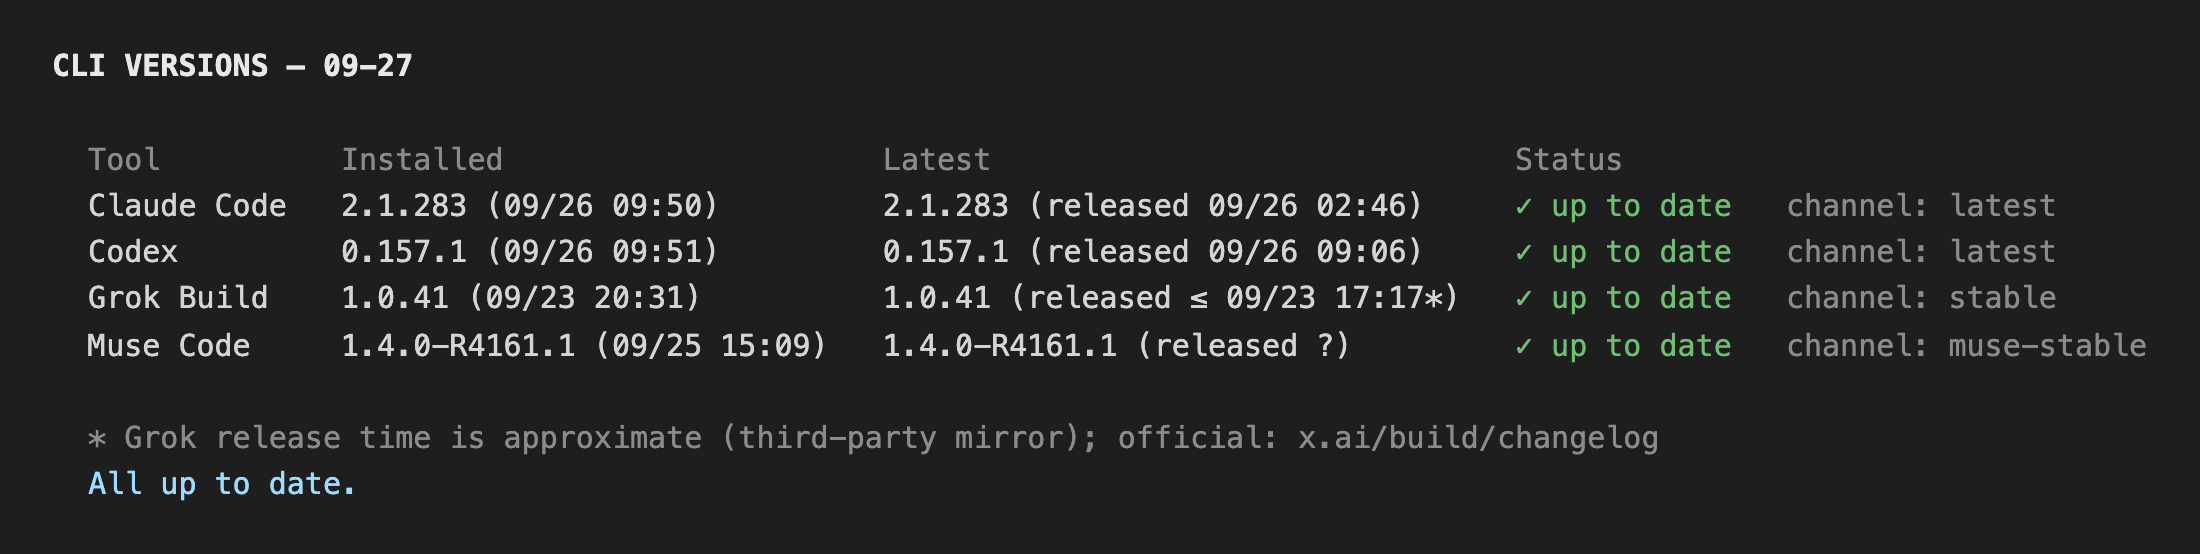
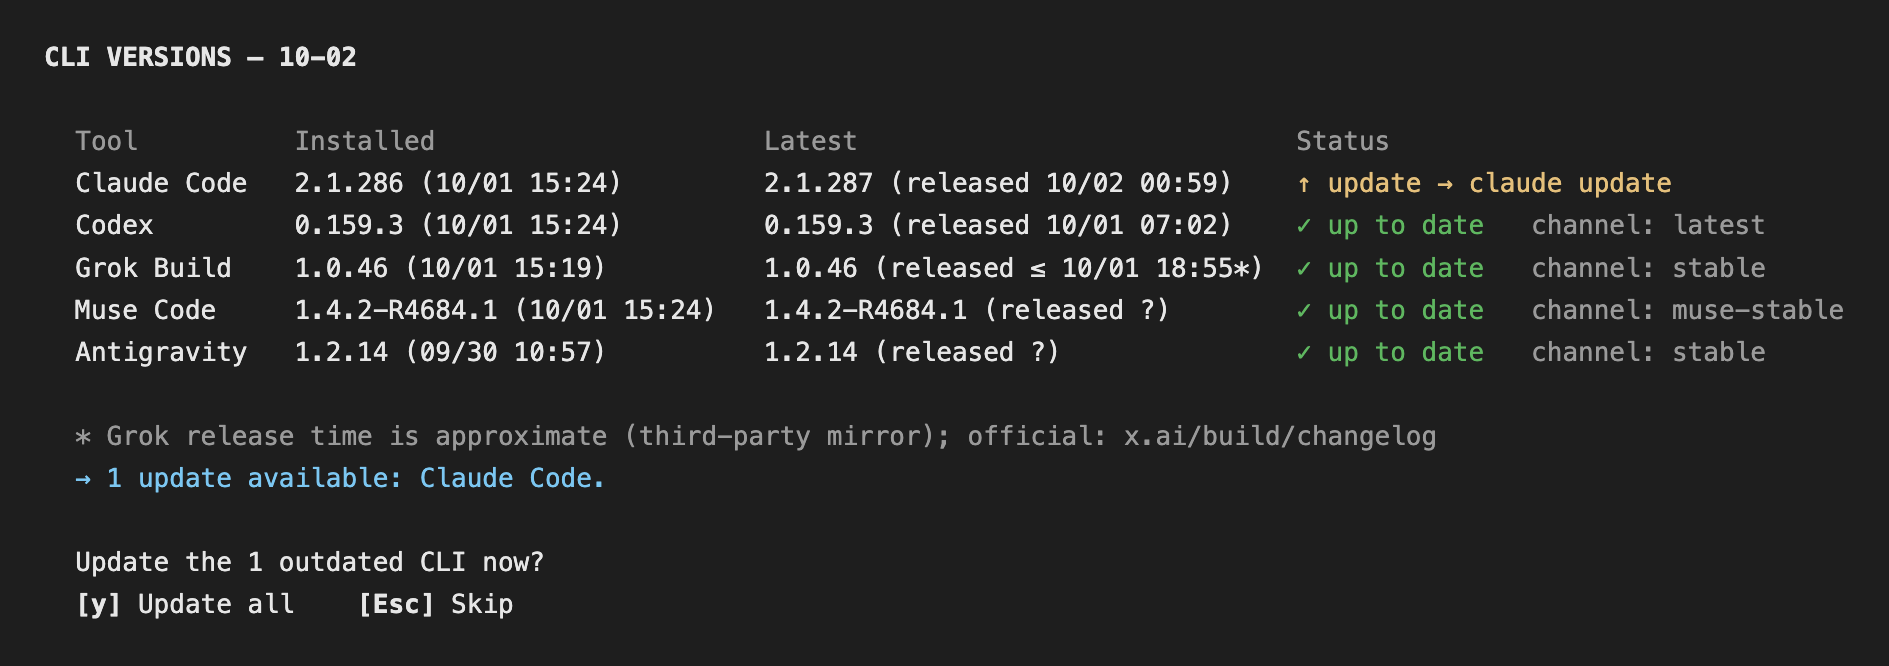
feat(ai-cli-version): check the Antigravity (Gemini) CLI, bump to 1.3.0
- Installed: ~/.gemini/bin/agy --version. Latest: Stable Version on the
  CLI's own auto-updater; it lists no dates, so released=? with the
  rollout percentage in the note.
- The update command is the full path: the agy on PATH is the IDE launcher.
- SKILL.md, READMEs and the demo image updated.

diff --git a/skills/ai-cli-version/run.py b/skills/ai-cli-version/run.py
@@ -1,13 +1,14 @@
 #!/usr/bin/env python3
-"""Report installed vs latest versions of the Claude Code, Codex, Grok Build and Muse Code CLIs.
+"""Report installed vs latest versions of the Claude Code, Codex, Grok Build, Muse Code and
+Antigravity (Gemini) CLIs.
 
 For each tool: the installed version and when it was installed on this machine, and the
 latest version and when it was released. Check only -- this script never installs or
 updates anything.
 
 Standard library only. The Python code makes HTTP requests to the npm registry, the
-GitHub API and Muse's public release channel; everything else is read from the local CLIs
-and the filesystem.
+GitHub API, Muse's public release channel and the Antigravity CLI's auto-updater;
+everything else is read from the local CLIs and the filesystem.
 """
 
 import datetime
@@ -21,7 +22,7 @@ import sys
 import urllib.request
 
 # Bumped by hand. `metadata.version` in SKILL.md mirrors this; keep them equal.
-VERSION = "1.2.0"
+VERSION = "1.3.0"
 
 TIMEOUT = 60
 HOME = os.path.expanduser("~")
@@ -67,6 +68,12 @@ def get_json(url, headers=None):
     request = urllib.request.Request(url, headers={"User-Agent": "ai-cli-version", **(headers or {})})
     with urllib.request.urlopen(request, timeout=TIMEOUT) as response:
         return json.loads(response.read().decode("utf-8", errors="replace"))
+
+
+def get_text(url):
+    request = urllib.request.Request(url, headers={"User-Agent": "ai-cli-version"})
+    with urllib.request.urlopen(request, timeout=TIMEOUT) as response:
+        return response.read().decode("utf-8", errors="replace")
 
 
 def parse_version(text):
@@ -288,6 +295,36 @@ def check_muse():
         print(f"muse	check failed ({exc})")
 
 
+# The Antigravity CLI's own auto-updater. Its root answers in plain text, e.g.
+# "Antigravity CLI auto updater is running! Stable Version: 1.2.14. Rolled out to 100%".
+# `/releases` lists versions without dates, so there is no release time.
+AGY_UPDATER = "https://antigravity-cli-auto-updater-974169037036.us-central1.run.app"
+
+
+def check_agy():
+    # ~/.gemini/bin/agy, never `agy` on PATH: the Antigravity IDE installs an editor
+    # launcher with the same name, and running that opens a window.
+    cli = os.path.join(HOME, ".gemini", "bin", "agy.exe" if os.name == "nt" else "agy")
+    if not os.path.isfile(cli):
+        print("agy\tnot installed")
+        return
+    try:
+        installed = parse_version(run([cli, "--version"]))
+        page = get_text(AGY_UPDATER)
+        match = re.search(r"Stable Version:\s*(\d+\.\d+\.\d+)", page)
+        if not match:
+            raise RuntimeError("updater page names no stable version")
+        latest = parse_version(match.group(1))
+        rollout = re.search(r"Rolled out to\s*(\d+%)", page)
+        note = "not published: the updater lists versions without dates"
+        if rollout:
+            note += "; rolled out to " + rollout.group(1)
+        update = '"%s" update' % cli if " " in cli else "%s update" % cli
+        emit("agy", installed, install_time(cli), latest, None, note, "stable", update)
+    except Exception as exc:  # noqa: BLE001
+        print(f"agy\tcheck failed ({exc})")
+
+
 def main():
     stdout_utf8()
     if "--version" in sys.argv:
@@ -298,6 +335,7 @@ def main():
     check_codex()
     check_grok()
     check_muse()
+    check_agy()
 
 
 if __name__ == "__main__":

diff --git a/skills/ai-cli-version/SKILL.md b/skills/ai-cli-version/SKILL.md
@@ -1,10 +1,10 @@
 ---
 name: ai-cli-version
-description: Check whether the Claude Code, Codex, Grok Build and Muse Code CLIs are up to date, then optionally update outdated CLIs after a y/Esc choice. Use when the user runs /ai-cli-version or /check-uu, or asks 檢查更新, CLI 有沒有新版, claude/codex/grok/muse 要不要更新, 什麼時候發佈, 我什麼時候更新的, "is my CLI up to date", "when was this released".
-compatibility: Requires Python 3.9+, permission to launch subprocesses, and internet access to registry.npmjs.org, api.github.com and api.meta.ai. Each tool shown needs its CLI installed; missing tools are reported as not installed. npm and Node.js are not required. Tested on Windows and macOS; Linux is not yet tested.
+description: Check whether the Claude Code, Codex, Grok Build, Muse Code and Antigravity (Gemini) CLIs are up to date, then optionally update outdated CLIs after a y/Esc choice. Use when the user runs /ai-cli-version or /check-uu, or asks 檢查更新, CLI 有沒有新版, claude/codex/grok/muse/agy/antigravity 要不要更新, 什麼時候發佈, 我什麼時候更新的, "is my CLI up to date", "when was this released".
+compatibility: Requires Python 3.9+, permission to launch subprocesses, and internet access to registry.npmjs.org, api.github.com, api.meta.ai and the Antigravity CLI auto-updater (run.app). Each tool shown needs its CLI installed; missing tools are reported as not installed. npm and Node.js are not required. Tested on Windows and macOS; Linux is not yet tested.
 metadata:
   author: Jeinn
-  version: "1.2.0"
+  version: "1.3.0"
 ---
 
 # /ai-cli-version — CLI version and update check
@@ -31,6 +31,7 @@ Only the **latest** version and the **currently installed** version — no histo
 | Claude Code | `claude --version` | `~/.local/share/claude/versions/<installed>` | npm `@anthropic-ai/claude-code`, dist-tag = `autoUpdatesChannel` in `settings.json` under `$CLAUDE_CONFIG_DIR` or `~/.claude` (default `latest`) | npm publish time |
 | Codex | `codex --version` | `$CODEX_HOME` (default `~/.codex`) `/packages/standalone/releases/<installed>-*` | npm `@openai/codex`, dist-tag `latest` | npm publish time |
 | Grok Build | `grok update --check --json` | `~/.grok/downloads/grok-<installed>-*` | same call | **approximate** — see below |
+| Antigravity CLI | `~/.gemini/bin/agy --version` | the `agy` binary itself | the CLI's auto-updater: `Stable Version` on `https://antigravity-cli-auto-updater-974169037036.us-central1.run.app` | **not available** — see below |
 | Muse Code | `muse --version` with `MUSE_NO_AUTO_UPDATE=1` | `muse-bin-<installed>*` next to the `muse` launcher | `https://api.meta.ai/muse-code/channels/<channel>`, channel = `$MUSE_CHANNEL`, else `.muse-channel` next to the launcher (default `muse-stable`) | **not available** — see below |
 
 - `claude update` and `codex update` install immediately and have no check-only flag, so
@@ -57,6 +58,12 @@ Only the **latest** version and the **currently installed** version — no histo
   update command forces the launcher's own synchronous update (`MUSE_SYNC_UPDATE=1`)
   and prints the new version.
 
+- **Antigravity CLI is `~/.gemini/bin/agy`, never the `agy` on PATH.** The Antigravity IDE
+  installs an editor launcher with the same name; running it opens a window. The update
+  command is the full path, `~/.gemini/bin/agy update`. Its auto-updater lists versions
+  without dates, so `released=?` always; the note says how far the rollout has gone.
+  The CLI also updates itself when it starts.
+
 Each tool line is tab-separated:
 `name installed=… installed_at=… latest=… released=… released_note=… channel=… status=… update_cmd=…`,
 or `name<TAB>not installed`, or `name<TAB>check failed (<reason>)`. Times are local
@@ -72,6 +79,7 @@ CLI VERSIONS — 09-17
   Codex         0.153.4 (09/07 11:03)   0.154.0 (released 09/10 06:40)     ↑ update → codex update
   Grok Build    1.0.34  (09/17 09:28)   1.0.34  (released ≤ 09/17 03:32*)  ✓ up to date      channel: stable
   Muse Code     1.3.0-R3401.1 (09/24 11:08)   1.3.0-R3401.1 (released ?)   ✓ up to date   channel: muse-stable
+  Antigravity   1.2.14  (09/30 10:57)   1.2.14  (released ?)               ✓ up to date      channel: stable
 
   * Grok release time is approximate (third-party mirror); official: x.ai/build/changelog
   → 1 update available: Codex.
@@ -85,7 +93,9 @@ Rules:
   reason; never drop a row, and never fill in a version or time from memory.
 - Show `?` for an unknown time; do not guess.
 - Grok's release time always gets `≤` and the footnote.
-- Muse's release time is always `?`; do not fill it in from anywhere else.
+- Muse's and Antigravity's release times are always `?`; do not fill them in from anywhere else.
+- Label the `agy` row `Antigravity` (it is the Gemini CLI) and print its update command
+  exactly as `update_cmd` gives it — a full path, never a bare `agy update`.
 - `↑ update` rows end with the update command.
 - `ahead of channel` means the installed build is newer than the channel tag — show it
   as-is, not as an error.

diff --git a/skills/ai-cli-version/README.md b/skills/ai-cli-version/README.md
@@ -1,6 +1,6 @@
 # ai-cli-version
 
-One report for whether your Claude Code, Codex, Grok Build and Muse Code CLIs are up to date — the
+One report for whether your Claude Code, Codex, Grok Build, Muse Code and Antigravity (Gemini) CLIs are up to date — the
 version you have and when you installed it, the latest version and when it was released.
 
 The version check is always read-only. When an update is available, the agent offers two
@@ -43,8 +43,9 @@ without it every HTTPS request fails with `CERTIFICATE_VERIFY_FAILED` and each t
 | Codex | `codex` |
 | Grok Build | `grok` |
 | Muse Code | `muse` |
+| Antigravity (Gemini) | `~/.gemini/bin/agy` |
 
-**You do not need all four.** A tool that is not installed prints `not installed`; the
+**You do not need all five.** A tool that is not installed prints `not installed`; the
 others still run. Signing in is not required to read versions.
 
 ### 3. Network and subprocess access
@@ -111,14 +112,14 @@ tab-separated lines, not the formatted report.
 
 ## What it prints
 
-`/ai-cli-version` on 09-27, with all four CLIs up to date:
+`/ai-cli-version` on 10-02, with all five CLIs checked and one update available:
 
 ![ai-cli-version report](images/demo.png)
 
 Each row shows the version you have and when you installed it, the latest version and
 when it was released, the status and the update channel. Grok Build's release time
 carries `≤` and the `*` footnote because it comes from a third-party mirror; Muse Code's
-is always `?` because its channel publishes no date. The last line is `All up to date.`
+and Antigravity's are always `?` because their update sources publish no date. The last line is `All up to date.`
 or the list of CLIs that have an update.
 
 When a CLI is outdated, its row ends with the update command and the agent asks before
@@ -132,6 +133,7 @@ CLI VERSIONS — 09-24
   Codex         0.153.4 (09/07 11:03)         0.154.0 (released 09/10 06:40)     ↑ update → codex update
   Grok Build    1.0.34 (09/17 09:28)          1.0.34 (released ≤ 09/17 03:32*)   ✓ up to date   channel: stable
   Muse Code     1.3.0-R3401.1 (09/24 11:08)   1.3.0-R3401.1 (released ?)         ✓ up to date   channel: muse-stable
+  Antigravity   1.2.14 (09/30 10:57)          1.2.14 (released ?)                ✓ up to date   channel: stable
 
   * Grok release time is approximate (third-party mirror); official: x.ai/build/changelog
   → 1 update available: Codex.
@@ -151,6 +153,7 @@ always check-only and continues to print raw report data without accepting input
 | Codex | `codex --version` | `$CODEX_HOME/packages/standalone/releases/<installed>-*` | npm registry, `@openai/codex` `latest` | npm publish time |
 | Grok Build | `grok update --check --json` | `~/.grok/downloads/grok-<installed>-*` | same call | GitHub release of `timoteuszelle/x.ai-grok` (approximate) |
 | Muse Code | `muse --version` | `muse-bin-<installed>*` next to the `muse` launcher | `https://api.meta.ai/muse-code/channels/<channel>` (public, the file the launcher reads) | not available (`?`) |
+| Antigravity (Gemini) | `~/.gemini/bin/agy --version` | the `agy` binary | `Stable Version` on the CLI's own auto-updater (`antigravity-cli-auto-updater-….run.app`) | not available (`?`) |
 
 `settings.json` is read from `$CLAUDE_CONFIG_DIR`, else `~/.claude`. `$CODEX_HOME`
 defaults to `~/.codex`. If the installed-at path does not exist — npm or Homebrew
@@ -175,6 +178,12 @@ If the mirror stops publishing, the Grok release time shows `?`.
 **Muse release time is not available.** The channel manifest carries a version and no
 date, so the Muse release time always shows `?`. The channel is `$MUSE_CHANNEL`, else
 the `.muse-channel` file next to the launcher, else `muse-stable`.
+
+**Antigravity runs `~/.gemini/bin/agy`, never the `agy` on PATH.** The Antigravity IDE
+installs an editor launcher with the same name, and running that opens a window. The
+update command is therefore the full path, `~/.gemini/bin/agy update`. The auto-updater
+lists versions without dates, so the release time always shows `?`; the note says how far
+the current version has rolled out. The CLI also updates itself when it starts.
 
 **Native builds are assumed to track npm.** The native installers of Claude Code and Codex
 are not published through npm. This skill assumes they ship the same version numbers as
@@ -208,6 +217,10 @@ Linux has not been tested yet.
 1.3.0-R3401.1: version, install time, channel lookup, and the update command from both
 bash and PowerShell. Muse on macOS and Linux has not been tested; the POSIX launcher
 (`api.meta.ai/muse-launcher.sh`) uses the same file names and variables.
+
+**Verified** 2026-10-02 on macOS (arm64, Python 3.10.8) against the Antigravity CLI
+(`agy`) 1.2.14: version, install time and the updater's stable version. Windows and Linux
+have not been tested for Antigravity.
 
 ## License
 
